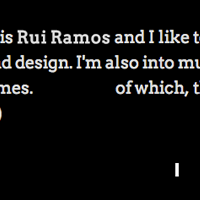
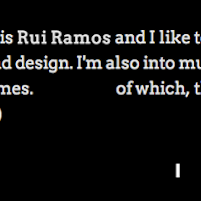
bloody images

diff --git a/index.html b/index.html
@@ -5,8 +5,8 @@
 
 <meta property="og:image" content="http://ruiramos.com/images/game-sshot.png"/>
 <meta property="og:image:type" content="image/png">
-<meta property="og:image:width" content="200">
-<meta property="og:image:height" content="200">
+<meta property="og:image:width" content="201">
+<meta property="og:image:height" content="201">
 
 <meta property="og:image" content="http://ruiramos.com/images/game-sshot-large.png"/>
 <meta property="og:image:type" content="image/png">
